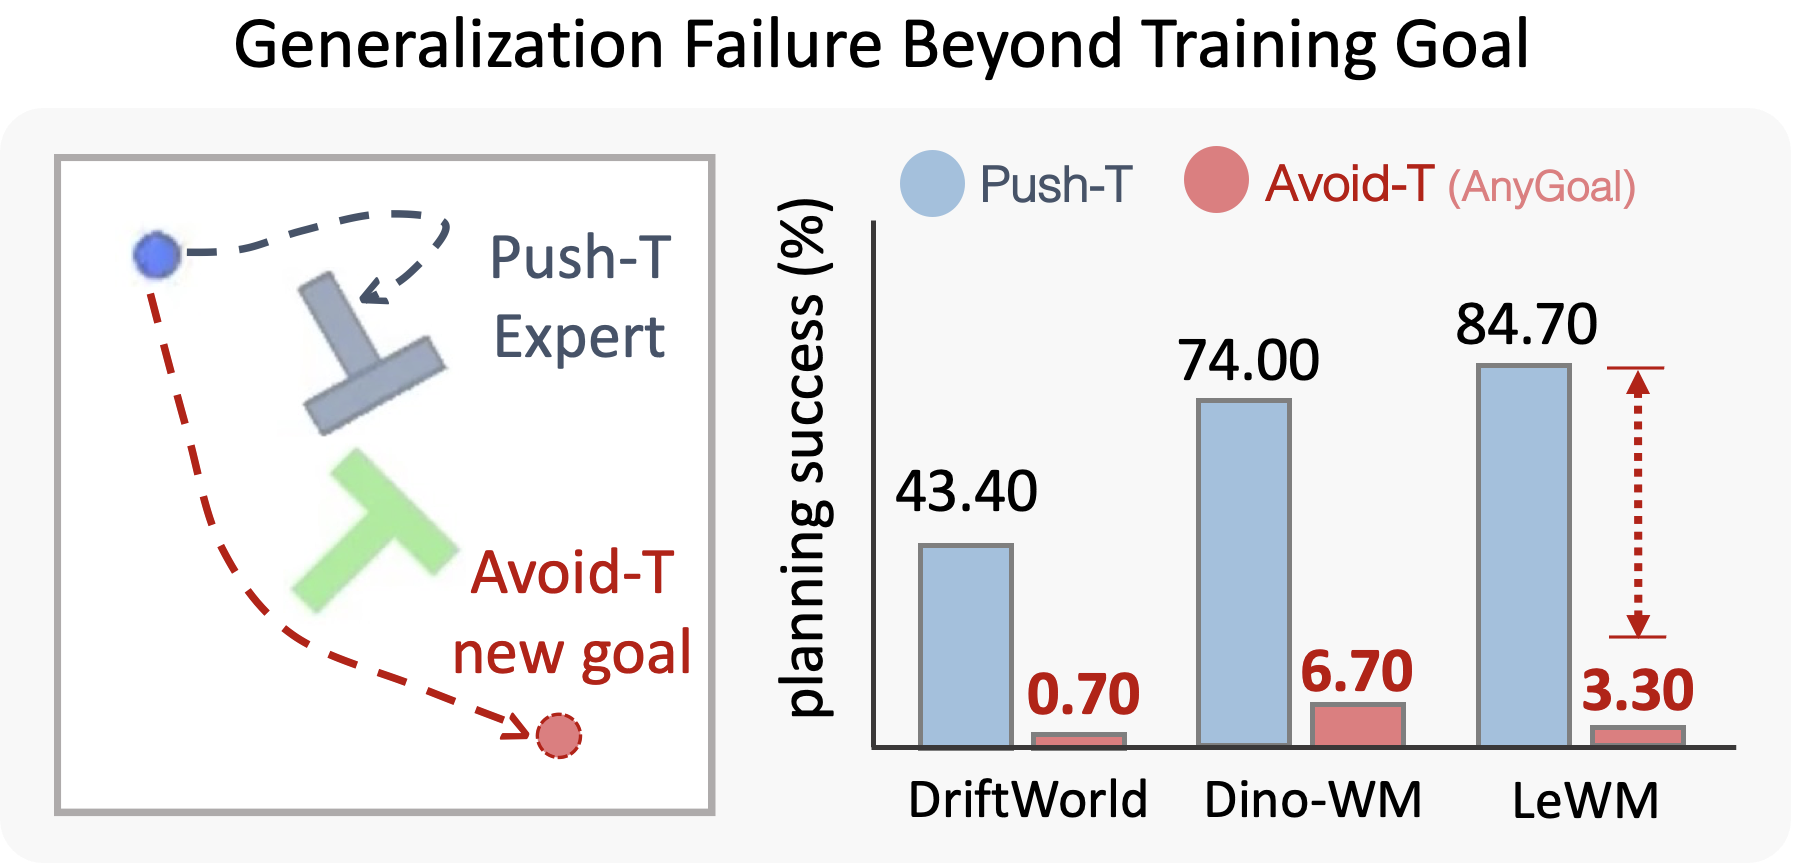
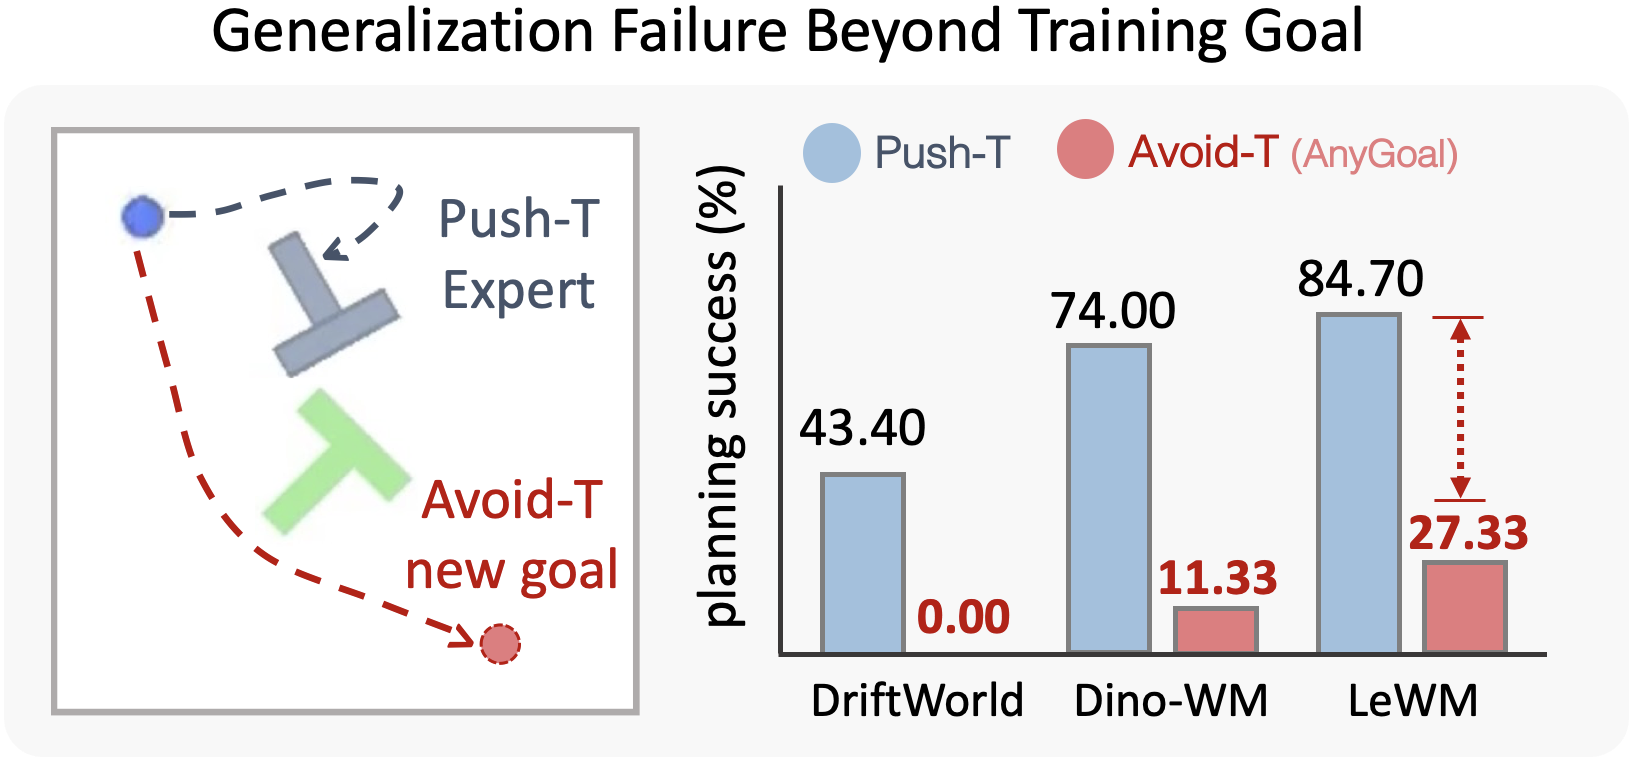
update

diff --git a/_site/index.html b/_site/index.html
@@ -45,7 +45,7 @@
 <body class="home-page">
   <!-- Navigation -->
   <nav id="nav">
-    <a class="site-brand" href="#one">Heejeong Nam</a>
+    <a class="site-brand" href="#one">Heejeong (Hazel) Nam</a>
     <ul>
       <li><a href="#one" class="active">About</a></li>
       <li><a href="#five">Talks</a></li>
@@ -63,7 +63,7 @@
   <section id="header" class="skel-layers-fixed">
     <header>
       <span class="image avatar"><img src="images/avatars/hj2.jpg" alt="" /></span>
-      <h1>Heejeong Nam</h1>
+      <h1>Heejeong (Hazel) Nam</h1>
       <ul class="profile-links" aria-label="Social links">
         <li><a href="https://www.linkedin.com/in/heejeong-hazel-nam-926963248/" target="_blank"
             rel="noopener noreferrer" class="icon fa-linkedin" aria-label="LinkedIn"><span
@@ -247,17 +247,32 @@
             <table class="invisible talks-list">
               <tbody class="invisible">
 
+                <tr class="invisible" hidden>
+                  <td>
+                    [Upcoming] Guest Lecture @ UPenn CIS6280,
+                    <span class="talk-date">Nov, 2026</span>
+                  </td>
+                </tr>
 
                 <tr class="invisible" hidden>
                   <td>
-                    [Upcoming] Guest Lecture @ University of Pittsburgh,
+                    Lightning Talk @ Synthetic data for reliable AI,
                     <span class="talk-date">Nov, 2026</span>
                   </td>
                 </tr>
 
                 <tr class="invisible" data-selected-talk data-selected-order="2">
                   <td>
-                    Guest Lecture @ Brown University,
+                    Guest Lecture @ UPitts ECE3893,
+                    <span class="talk-date">Nov 18, 2026</span>
+                    <button type="button" class="talk-abstract-button"
+                      data-abstract-open="upitts-guest-lecture">Abstract</button>
+                  </td>
+                </tr>
+
+                <tr class="invisible" data-selected-talk data-selected-order="3">
+                  <td>
+                    Guest Lecture @ Brown CSCI2952X,
                     <span class="talk-date">Oct 20th, 2026</span>
                     <button type="button" class="talk-abstract-button"
                       data-abstract-open="brown-guest-lecture">Abstract</button>
@@ -265,7 +280,7 @@
                 </tr>
 
 
-                <tr class="invisible" data-selected-talk data-selected-order="3">
+                <tr class="invisible" data-selected-talk data-selected-order="4">
                   <td>
                     Live AI Research Talk @ Ploutos,
                     <span class="talk-date">Jul 27th, 2026</span>
@@ -298,7 +313,7 @@
                 </tr>
 
 
-                <tr class="invisible" data-selected-talk data-selected-order="4">
+                <tr class="invisible" data-selected-talk data-selected-order="5">
                   <td>
                     Webinar @ POSTECH,
                     <span class="talk-date">Mar 18, 2026</span>
@@ -331,6 +346,25 @@
             -->
         </div>
       </section>
+
+      <dialog class="talk-abstract-dialog" id="upitts-guest-lecture" aria-labelledby="upitts-abstract-title">
+        <div class="talk-abstract-dialog-header">
+          <h3 id="upitts-abstract-title">Guest Lecture @ UPitts ECE3893</h3>
+          <button type="button" class="talk-abstract-close" data-abstract-close
+            aria-label="Close abstract">&times;</button>
+        </div>
+        <div class="talk-abstract-content">
+          <h4>TLDR</h4>
+          <p>At the heart of world models lies a fundamental question: what makes a learned representation useful beyond the objective it was trained on?</p>
+          <p>Video link: <a href="https://pitt.zoom.us/rec/share/1lui_XfLX_NQXmmWz7roQlKAS3hKtelQE3wha1kSepmLpN1lJ1x1PK8NSaZhnJJ1.pG2EaiASBpAFUhJQ" target="_blank" rel="noopener noreferrer">Watch the recording</a></p>
+          <h4>Abstract</h4>
+          <p>The first part of the talk focuses on backbone pretraining by maximizing pixel-level reconstruction quality, and particularly Masked Autoencoders (MAE). For this class of models, strong downstream performance often requires additional guidance in the form of fine-tuning or non-linear pooling. The talk explores whether this mismatch reflects downstream underdetermination: models with the same reconstruction loss can nevertheless express features with substantially different downstream utility. Experiments reveal substantial variation in linear-probe accuracy among checkpoints at matched reconstruction loss, with the variation generally increasing as reconstruction loss decreases. The talk provides a first-order local characterization of this phenomenon, proposing a classification-guided predictor--corrector traversal that improves or degrades downstream performance while keeping reconstruction loss nearly fixed. These results indicate that the reconstruction loss does not determine downstream representation quality and identify directions that reconstruction weakly constrains yet matter substantially for classification.</p>
+          <p>The second part of the talk is about compositional generalization of world models. Humans do not memorize every scene or transition to learn. Instead, we form reusable concepts and knowledge from observation, such as how actions move an agent in different directions or how rigid objects can interact and push one another. Once such knowledge is learned, it becomes much easier to reason about a slightly different goal or to think about counterfactual situations without relearning the environment from scratch. This raises a natural question: can world models do the same? This talk focuses on two related questions: whether world models truly learn the underlying dynamics of the environment, and how models can be encouraged to learn dynamics that are more reusable and generalizable.</p>
+          <h4>Speakers’ Biographical Sketch</h4>
+          <p>Matteo Gamba is a postdoctoral fellow at Brown University, working on the theory of self-supervised learning and joint-embedding architecture world models, with focus on characterizing their geometry and robustness properties. His research is centered on developing geometry-informed interpretable approaches to ensure world models can be reliably and safely deployed in high impact applications. Matteo obtained his Ph.D in Computer Science in 2025 from KTH in Stockholm, Sweden. His doctoral thesis provided a characterization of emerging robustness in supervised and self-supervised learning in terms of the geometry of ReLU-based neural networks. Matteo holds a MSc degree in Computer Science from KTH and a BSc in Mathematics from the University of Turin, Italy.</p>
+          <p>Hazel (Heejeong) Nam is a graduate student in Computer Science at Brown University and a Fulbright Scholar, working closely with Randall Balestriero and David Klindt. Her research focuses on world models, representation learning, causality, and compositionality, with the broader goal of enabling more human-like visual perception and reasoning. Her work on JEPA and world models has also been featured in a guest lecture for Stanford CS25. Hazel previously worked as an AI researcher at Boeing and obtained her BSc in Electrical and Electronic Engineering from Yonsei University, South Korea.</p>
+        </div>
+      </dialog>
 
       <dialog class="talk-abstract-dialog" id="brown-guest-lecture" aria-labelledby="brown-abstract-title">
         <div class="talk-abstract-dialog-header">
@@ -478,7 +512,7 @@
                 </div>
                 <div class="inner">
                   <div class="pub-meta-row">
-                    <span class="conf-badge">arxiv</span>
+                    <span class="conf-badge">ICMLW</span>
                     <span class="pub-links">
                       <script>paper("https://arxiv.org/abs/2606.30544");</script>
                       <script>website("https://hazel-heejeong-nam.github.io/LAM/");</script>
@@ -491,7 +525,7 @@
                   <strong>Heejeong Nam</strong>, Chandraditya S Jonnalagadda, Harshit Aggarwal, Erix Xu, Randall
                   Balestriero
                   <br>
-                  Under Review
+                  ICML 2026 Workshop on Compositional Learning
                 </div>
               </article>
               <article>

diff --git a/index.html b/index.html
@@ -264,7 +264,9 @@
                 <tr class="invisible" data-selected-talk data-selected-order="2">
                   <td>
                     Guest Lecture @ UPitts ECE3893,
-                    <span class="talk-date">Nov, 2026</span>
+                    <span class="talk-date">Nov 18, 2026</span>
+                    <button type="button" class="talk-abstract-button"
+                      data-abstract-open="upitts-guest-lecture">Abstract</button>
                   </td>
                 </tr>
 
@@ -344,6 +346,25 @@
             -->
         </div>
       </section>
+
+      <dialog class="talk-abstract-dialog" id="upitts-guest-lecture" aria-labelledby="upitts-abstract-title">
+        <div class="talk-abstract-dialog-header">
+          <h3 id="upitts-abstract-title">Guest Lecture @ UPitts ECE3893</h3>
+          <button type="button" class="talk-abstract-close" data-abstract-close
+            aria-label="Close abstract">&times;</button>
+        </div>
+        <div class="talk-abstract-content">
+          <h4>TLDR</h4>
+          <p>At the heart of world models lies a fundamental question: what makes a learned representation useful beyond the objective it was trained on?</p>
+          <p>Video link: <a href="https://pitt.zoom.us/rec/share/1lui_XfLX_NQXmmWz7roQlKAS3hKtelQE3wha1kSepmLpN1lJ1x1PK8NSaZhnJJ1.pG2EaiASBpAFUhJQ" target="_blank" rel="noopener noreferrer">Watch the recording</a></p>
+          <h4>Abstract</h4>
+          <p>The first part of the talk focuses on backbone pretraining by maximizing pixel-level reconstruction quality, and particularly Masked Autoencoders (MAE). For this class of models, strong downstream performance often requires additional guidance in the form of fine-tuning or non-linear pooling. The talk explores whether this mismatch reflects downstream underdetermination: models with the same reconstruction loss can nevertheless express features with substantially different downstream utility. Experiments reveal substantial variation in linear-probe accuracy among checkpoints at matched reconstruction loss, with the variation generally increasing as reconstruction loss decreases. The talk provides a first-order local characterization of this phenomenon, proposing a classification-guided predictor--corrector traversal that improves or degrades downstream performance while keeping reconstruction loss nearly fixed. These results indicate that the reconstruction loss does not determine downstream representation quality and identify directions that reconstruction weakly constrains yet matter substantially for classification.</p>
+          <p>The second part of the talk is about compositional generalization of world models. Humans do not memorize every scene or transition to learn. Instead, we form reusable concepts and knowledge from observation, such as how actions move an agent in different directions or how rigid objects can interact and push one another. Once such knowledge is learned, it becomes much easier to reason about a slightly different goal or to think about counterfactual situations without relearning the environment from scratch. This raises a natural question: can world models do the same? This talk focuses on two related questions: whether world models truly learn the underlying dynamics of the environment, and how models can be encouraged to learn dynamics that are more reusable and generalizable.</p>
+          <h4>Speakers’ Biographical Sketch</h4>
+          <p>Matteo Gamba is a postdoctoral fellow at Brown University, working on the theory of self-supervised learning and joint-embedding architecture world models, with focus on characterizing their geometry and robustness properties. His research is centered on developing geometry-informed interpretable approaches to ensure world models can be reliably and safely deployed in high impact applications. Matteo obtained his Ph.D in Computer Science in 2025 from KTH in Stockholm, Sweden. His doctoral thesis provided a characterization of emerging robustness in supervised and self-supervised learning in terms of the geometry of ReLU-based neural networks. Matteo holds a MSc degree in Computer Science from KTH and a BSc in Mathematics from the University of Turin, Italy.</p>
+          <p>Hazel (Heejeong) Nam is a graduate student in Computer Science at Brown University and a Fulbright Scholar, working closely with Randall Balestriero and David Klindt. Her research focuses on world models, representation learning, causality, and compositionality, with the broader goal of enabling more human-like visual perception and reasoning. Her work on JEPA and world models has also been featured in a guest lecture for Stanford CS25. Hazel previously worked as an AI researcher at Boeing and obtained her BSc in Electrical and Electronic Engineering from Yonsei University, South Korea.</p>
+        </div>
+      </dialog>
 
       <dialog class="talk-abstract-dialog" id="brown-guest-lecture" aria-labelledby="brown-abstract-title">
         <div class="talk-abstract-dialog-header">
